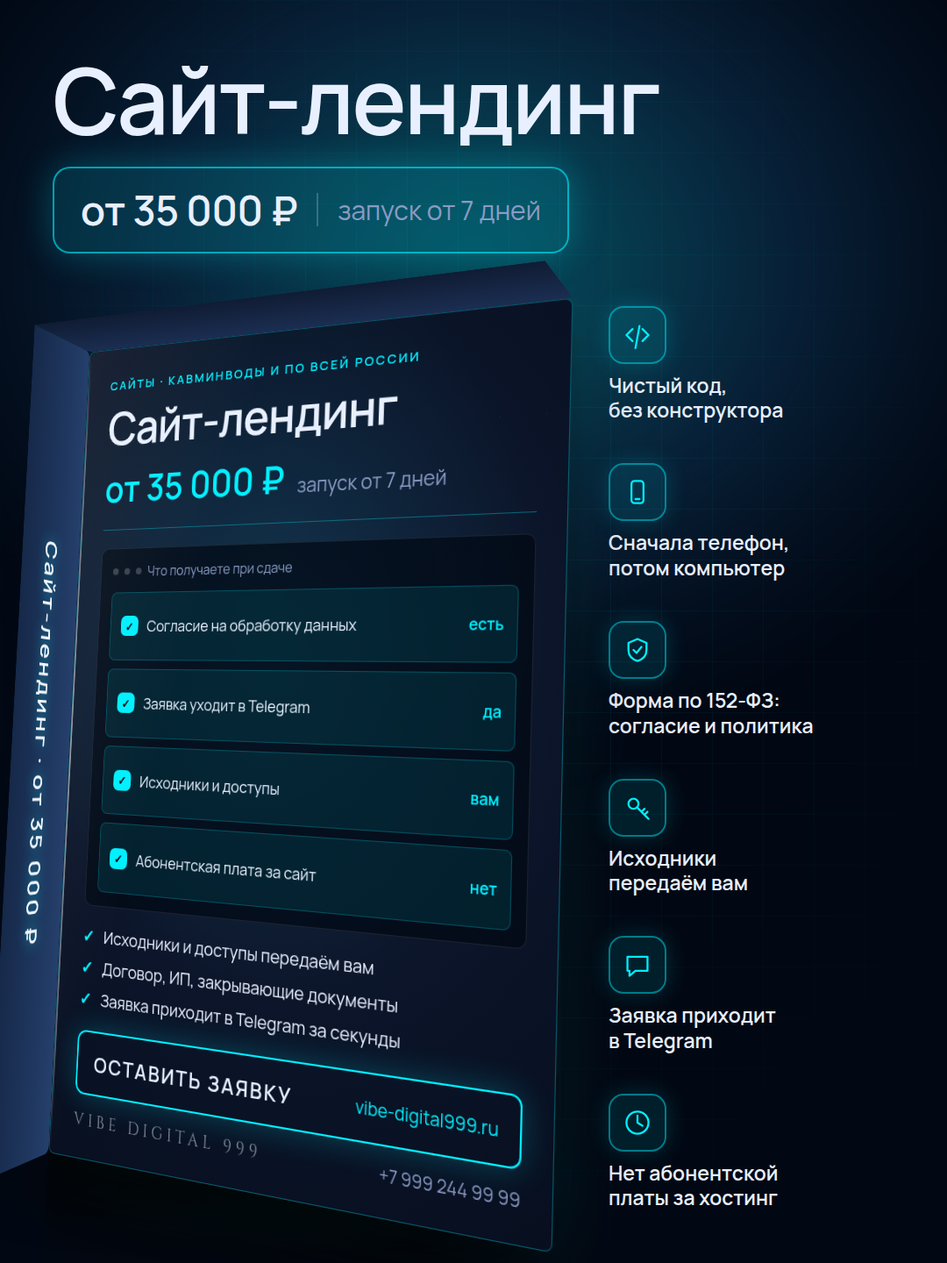
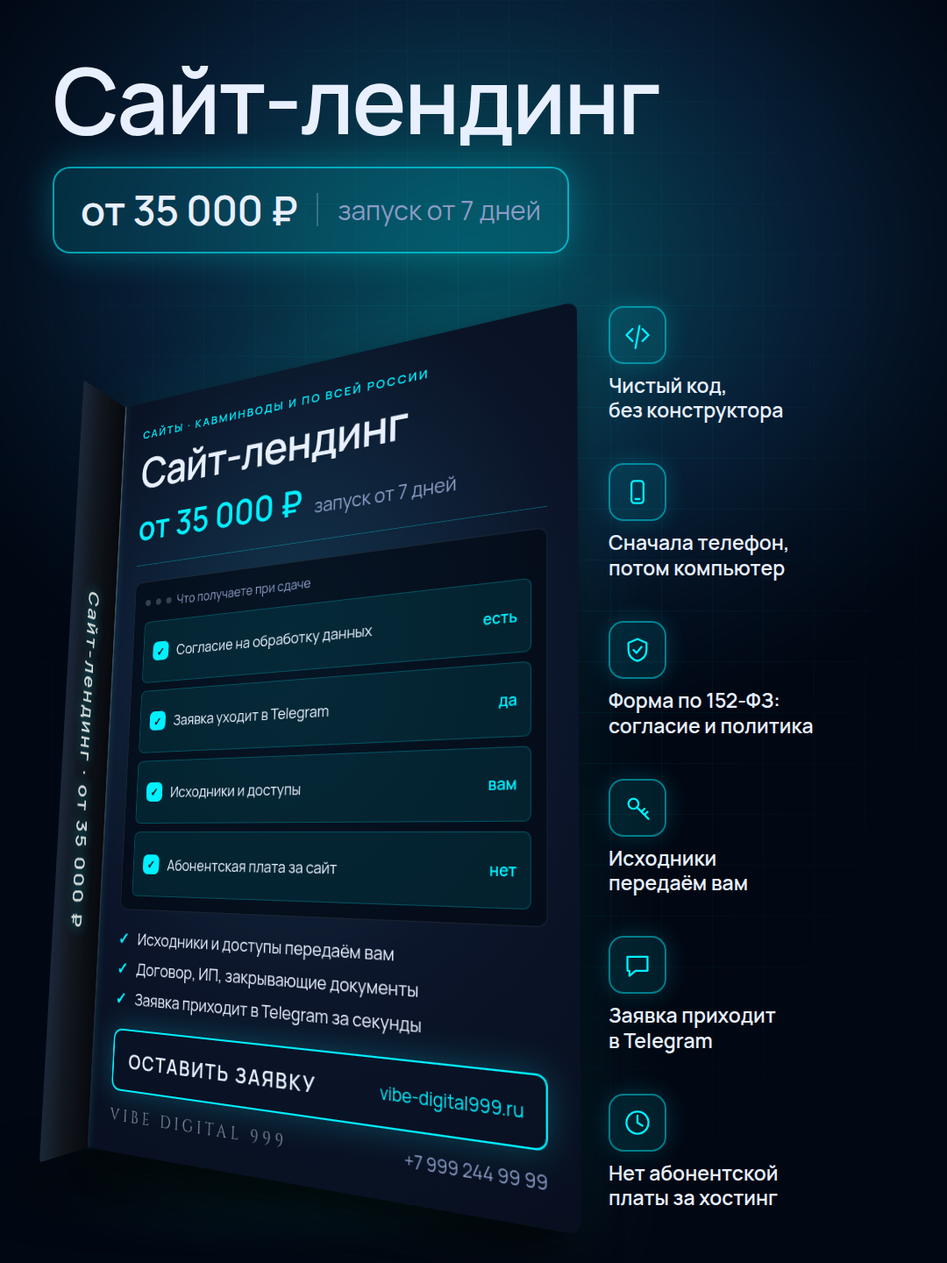
Книга собрана одним блоком с псевдоэлементами
По схеме владелицы: .book как единое тело, корешок и блик на сгибе —
::before и ::after. Отдельные грани удалены: браузер поворачивал их
независимо, отсюда щели и раскрытая обложка.

Толщина пересчитана по пропорции её макета (320px/45px) под наши
600px — 84px; на её 45px книга снова стала бы плоской.

Claude-Session: https://claude.ai/code/session_01ELgwZhZjs3zH5Yv9y5TfEh

Changed region(s): [[0.0, 0.1875, 0.6111, 0.9688], [0.4889, 0.4688, 0.55, 0.6562], [0.4889, 0.6875, 0.55, 0.7188]]

diff --git a/marketing/karty-korobka.js b/marketing/karty-korobka.js
@@ -167,6 +167,9 @@ ${fontCss}
   :root{
     --ink:#020813; --white:#E8F0FF; --mist:#8A9BC4;
     --acc:${k.color}; --acc2:${k.color2};
+    /* Надпись на торце. Через переменную, потому что content
+       у псевдоэлемента иначе не собрать из данных. */
+    --korshok:"${k.title} · ${k.cena}";
   }
 
   body{width:${W}px;height:${H}px;background:var(--ink);color:var(--white);
@@ -214,141 +217,93 @@ ${fontCss}
   /* ── Сцена с коробкой ──────────────────────────────────── */
   .scena{margin-top:44px;flex:1;display:flex;gap:34px;align-items:stretch}
 
-  /* ГЛУБИНА КОРОБКИ — одно число, от него считаются боковая и верхняя
-     грани. Первая версия была 64px при развороте 15°: боковина в кадре
-     занимала 64·sin15° ≈ 16 пикселей, и предмет читался плоской панелью,
-     а не коробкой. Владелица сказала прямо — «книга не выходит».
-     Теперь 118px при 24°: боковина ≈ 48px, ребро видно. */
-  .scena{--glub:110px;--pol:55px}   /* --pol — половина толщины */
+  /* ── КНИГА ────────────────────────────────────────────────
 
-  /* align-items:stretch, а не center: коробка занимает всю высоту сцены,
-     и тень внизу оказывается прямо под дном. При center коробка висела
-     посередине, а тень оставалась у нижнего края контейнера — в полусотне
-     пикселей под ней, и предмет всё равно не стоял. */
-  .box3d{position:relative;perspective:1500px;perspective-origin:50% 38%;
-    /* Отступ сверху — под верхнюю грань: она торчит над лицом на всю
-       глубину коробки и без запаса налезала на строчку про акцию. */
-    flex:0 0 600px;display:flex;align-items:stretch;padding:46px 0 52px}
+     Собирается ОДНИМ блоком, а не тремя гранями. Разница
+     принципиальная, и предыдущие версии на ней и валились:
+     три отдельные грани браузер поворачивает независимо, между ними
+     появляются щели и провалы, а угол читается раскрытой обложкой.
 
-  /* Тень на поверхности. Без неё коробка висит в пустоте: объём есть,
-     а стоять ей не на чем — глаз это замечает раньше, чем разбирает
-     грани. Две тени: чёрная под дном и цветной отсвет пошире. */
-  .box3d::after{content:'';position:absolute;z-index:0;
-    left:-10%;right:10%;bottom:8px;height:64px;border-radius:50%;
+     Здесь тело одно — .book. Корешок и блик на сгибе — его
+     псевдоэлементы, то есть части того же тела. Разъехаться нечему.
+
+     Пропорции взяты из образца владелицы и пересчитаны под наш холст:
+     у неё книга 320px и корешок 45px, это 14% толщины. У нас книга
+     600px, значит корешок 84px. Оставить 45px как есть было нельзя:
+     на нашем размере это 7%, и книга снова стала бы плоской —
+     то самое, на что она жаловалась двумя правками раньше. */
+  .scena{--tolshchina:84px}
+
+  .book-container{position:relative;perspective:1200px;
+    flex:0 0 600px;display:flex;align-items:stretch;
+    justify-content:center;padding:52px 0 56px}
+
+  /* Тень на «полу». Отдельными пятнами под контейнером, а не только
+     через box-shadow книги: box-shadow поворачивается вместе с телом
+     и ложится на его плоскость, а лежать она должна на полу. */
+  .book-container::after{content:'';position:absolute;z-index:0;
+    left:-10%;right:10%;bottom:10px;height:62px;border-radius:50%;
     background:radial-gradient(ellipse at 42% 50%,
       rgba(0,0,0,.9) 0%, rgba(0,0,0,.5) 42%, transparent 74%);
     filter:blur(26px)}
-  .box3d::before{content:'';position:absolute;z-index:0;
+  .book-container::before{content:'';position:absolute;z-index:0;
     left:-4%;right:-2%;bottom:0;height:88px;border-radius:50%;
     background:radial-gradient(ellipse at 50% 50%,
       color-mix(in srgb, var(--acc) 26%, transparent) 0%, transparent 70%);
     filter:blur(34px)}
 
-  /* СБОРКА КОРОБКИ. Три грани одного тела, а не лист с отогнутыми
-     краями. Правило простое: каждая грань выдвигается на половину
-     толщины вперёд, и только потом поворачивается вокруг своего ребра.
+  .book{position:relative;z-index:1;flex:1;
+    padding:34px 32px 30px;
+    border-radius:4px 12px 12px 4px;
+    transform-style:preserve-3d;
+    transform:rotateY(-28deg) rotateX(7deg) rotateZ(-2deg);
 
-     Первая версия строилась иначе: корешок стоял СНАРУЖИ лица,
-     через right:100%, и отгибался от него, как раскрытая обложка.
-     На картинке это и выглядело вывернутой наизнанку книгой —
-     угол между гранями получался тупой, а не прямой.
-
-     Теперь: лицо на +55px, корешок пристыкован к левому ребру
-     через left:0 с поворотом вокруг левого края и уходит ВГЛУБЬ,
-     от +55 до -55. Верхняя грань так же — от верхнего ребра назад.
-     Угол между гранями ровно 90°, тело замкнуто.
-
-     Осторожно: этот файл — шаблонная строка JS. Обратные кавычки
-     в комментариях к CSS закрывают её и валят разбор. */
-  .box{position:relative;z-index:1;transform-style:preserve-3d;flex:1;display:flex;
-    transform:rotateY(-25deg) rotateX(5deg)}
-
-  .top{position:absolute;left:0;top:0;width:100%;height:var(--glub);
-    transform-origin:top center;
-    transform:translateZ(var(--pol)) rotateX(90deg);
-    background:linear-gradient(180deg,#1B2E52,#101C34);
-    border-radius:8px 8px 0 0}
-
-  /* Корешок — боковая грань, отогнутая назад от левого ребра лица.
-
-     Как считается. Элемент ставится ЛЕВЕЕ лица (right:100%), значит его
-     правое ребро совпадает с левым ребром лица. Точка вращения — это
-     самое правое ребро, поворот на -90° уводит левый край назад ровно
-     на свою ширину, то есть на глубину коробки.
-
-     Первая версия вращалась вокруг точки внутри лица и с лишним
-     сдвигом — корешок ложился поперёк передней грани и перечёркивал
-     цену. На глаз это видно сразу, но только если посмотреть картинку,
-     а не поверить, что «CSS правильный». */
-  .spine{position:absolute;top:0;left:0;width:var(--glub);height:100%;
-    transform-origin:left center;
-    transform:translateZ(var(--pol)) rotateY(-90deg);
-    /* Боковина темнее лица: плоскость уходит от света, и без этого
-       перепада грани сливаются в одну картонку. Слева по ребру —
-       светлая полоса, это сгиб. */
-    /* Корешок СВЕТЛЕЕ лица, а не темнее. Первая версия была темнее —
-       и книга сливалась в одну чёрную массу: две грани одного тона
-       читаются как один плоский прямоугольник. Светлая боковина
-       и тёмное лицо разводят плоскости мгновенно. */
-    /* Светлее лица — иначе две грани одного тона читаются как один
-       плоский прямоугольник. Ни рамки, ни внутренней тени у стыка:
-       рамка давала светящуюся щель между гранями, тень — провал.
-       Тело должно быть монолитным, стык обозначает только блик. */
-    background:linear-gradient(90deg,#25406C 0%,#1E355C 45%,#16294A 100%);
-    border-radius:8px 0 0 8px;
-    display:flex;align-items:center;justify-content:center}
-  /* Корешок повёрнут наружу, то есть к зрителю он обращён ИЗНАНКОЙ,
-     и текст на нём выходит зеркальным. Первая версия так и вышла:
-     «Сайт-лендинг» читался вывернутыми буквами снизу вверх. Поворот
-     содержимого на 180° вокруг вертикальной оси гасит зеркало —
-     буквы встают как надо. Проверять такое можно только глазами
-     на увеличенном куске картинки: на общем плане надпись мелкая
-     и выглядит правдоподобно. */
-  /* К зрителю корешок обращён изнанкой, поэтому текст на нём зеркалится.
-     Поворот содержимого на 180° вокруг вертикальной оси это гасит.
-     Пометка на будущее: меняешь знак поворота грани — перепроверяй
-     надпись на увеличенном куске, зеркало появляется и исчезает
-     вместе со знаком. */
-  .spine span{writing-mode:vertical-rl;text-align:center;transform:rotateY(180deg);
-    font-size:30px;font-weight:800;letter-spacing:.1em;color:#F2F7FF;
-    text-shadow:0 0 18px color-mix(in srgb, var(--acc) 55%, transparent)}
-
-  /* Лицо: не плоская заливка, а материал. Радиальный градиент из центра
-     к краям — середина светлее, углы уходят в тень. Без него обложка
-     читается как фон под текстом, а не как поверхность предмета.
-     Тень уведена влево-вниз: свет падает справа сверху, значит книга
-     отбрасывает тень в противоположный угол. */
-  .face{position:relative;flex:1;padding:34px 32px 30px;border-radius:8px;
-    transform:translateZ(var(--pol));
+    /* Обложка — материал, а не заливка: середина светлее, углы уходят
+       в тень. Поверх — едва заметный отсвет цветом услуги. */
     background:
       radial-gradient(ellipse 90% 70% at 42% 34%,
         color-mix(in srgb, var(--acc) 9%, transparent) 0%,
         transparent 62%),
       radial-gradient(ellipse 120% 90% at 45% 40%,
         #16243F 0%, #0B1428 48%, #050C1A 100%);
-    border:1px solid color-mix(in srgb, var(--acc) 32%, transparent);
-    box-shadow:-46px 60px 120px rgba(0,0,0,.72),
-               -18px 26px 60px rgba(0,0,0,.5),
-               0 0 80px color-mix(in srgb, var(--acc) 13%, transparent);
+
+    box-shadow:
+      -10px 20px 40px rgba(0,0,0,.6),
+      -25px 40px 60px rgba(0,0,0,.4),
+      0 0 80px color-mix(in srgb, var(--acc) 12%, transparent);
+
     display:flex;flex-direction:column}
 
-  /* БЛИК НА СГИБЕ. Тонкая светлая полоса ровно по стыку лица и корешка.
-     Приём стоит две строчки, а объём даёт сразу: глаз читает ребро
-     как физический сгиб, поймавший свет. */
-  .face::after{content:'';position:absolute;top:6px;bottom:6px;left:0;width:2px;
-    background:linear-gradient(180deg,
-      transparent 0%,
-      rgba(255,255,255,.34) 14%,
-      rgba(255,255,255,.55) 50%,
-      rgba(255,255,255,.34) 86%,
-      transparent 100%);
-    pointer-events:none}
+  /* КОРЕШОК. Пристыкован к левому ребру и уходит вглубь: поворот вокруг
+     собственного левого края на 90°. Ни рамки, ни внутренней тени —
+     они и давали светящуюся щель между гранями. */
+  .book::before{content:var(--korshok);
+    position:absolute;left:0;top:0;width:var(--tolshchina);height:100%;
+    transform-origin:left center;
+    /* Читать справа налево: сдвиг на свою ширину, зеркало, поворот.
+       Зеркало здесь не украшение — к зрителю торец обращён изнанкой,
+       и без него надпись читается вывернутыми буквами. Сдвиг возвращает
+       грань на место после зеркала, поэтому геометрия не едет:
+       корешок по-прежнему уходит вглубь ровно на свою толщину. */
+    transform:rotateY(-90deg) scaleX(-1) translateX(-100%);
+    background:linear-gradient(270deg,#07090D 0%,#121820 62%,#1B2739 100%);
+    border-radius:4px 0 0 4px;
 
-  /* Мягкая засветка от верхнего левого угла — след того же источника. */
-  .face::before{content:'';position:absolute;inset:0;border-radius:8px;
-    background:linear-gradient(104deg,
-      rgba(255,255,255,.07) 0%,
-      transparent 30%);
+    /* Надпись на торце: строка кладётся вертикально и центрируется.
+       writing-mode вместо rotateZ — так буквы не выходят за узкий торец
+       и не требуют подгонки сдвигом. */
+    writing-mode:vertical-rl;text-align:center;white-space:nowrap;
+    display:flex;align-items:center;justify-content:center;
+    color:rgba(255,255,255,.82);font-size:26px;font-weight:800;
+    letter-spacing:.12em;
+    text-shadow:0 0 16px color-mix(in srgb, var(--acc) 50%, transparent)}
+
+  /* БЛИК НА СГИБЕ. Тонкая полоса ровно по ребру между обложкой
+     и корешком — от неё угол читается сгибом, а не стыком двух картонок. */
+  .book::after{content:'';position:absolute;left:0;top:0;width:2px;height:100%;
+    background:linear-gradient(to bottom,
+      rgba(255,255,255,.28), rgba(255,255,255,.06));
+    box-shadow:0 0 8px color-mix(in srgb, var(--acc) 34%, transparent);
     pointer-events:none}
 
   .f-eye{font-size:15px;font-weight:700;letter-spacing:.16em;
@@ -431,11 +386,8 @@ ${fontCss}
     ${k.akciya ? `<div class="akciya">${k.akciya}</div>` : ''}
 
     <div class="scena">
-      <div class="box3d">
-        <div class="box">
-          <div class="top"></div>
-          <div class="spine"><span>${k.title} · ${k.cena}</span></div>
-          <div class="face">
+      <div class="book-container">
+        <div class="book">
             <div class="f-eye">${k.eyebrow}</div>
             <div class="f-title">${k.title}</div>
             <div class="f-cena"><b>${k.cena}</b><span>${k.srokPrefix} ${k.srok}</span></div>
@@ -456,10 +408,9 @@ ${fontCss}
               <b>Оставить заявку</b><span>vibe-digital999.ru</span>
             </div>
 
-            <div class="f-foot">
-              <span class="mark">VIBE DIGITAL 999</span>
-              <span class="tel">+7 999 244 99 99</span>
-            </div>
+          <div class="f-foot">
+            <span class="mark">VIBE DIGITAL 999</span>
+            <span class="tel">+7 999 244 99 99</span>
           </div>
         </div>
       </div>
@@ -508,7 +459,7 @@ fs.mkdirSync(OUT, { recursive: true });
 
     const check = await page.evaluate(() => {
       const s = document.querySelector('.sheet');
-      const f = document.querySelector('.face').getBoundingClientRect();
+      const f = document.querySelector('.book').getBoundingClientRect();
       return {
         perepolnenie: Math.round(s.scrollHeight - s.clientHeight),
         nizKorobki: Math.round(f.bottom),

diff --git a/TASKS.md b/TASKS.md
@@ -3171,3 +3171,50 @@ GreenSock). Проверено открытием страниц, а не пои
 **Ждём от Гульнары:**
 
 - [ ] Посмотреть обе карточки: собралась ли коробка.
+
+### 13 августа, дополнение — книга собрана одним блоком
+
+Владелица прислала готовый CSS и потребовала прекратить делить книгу
+на независимые грани: «единый жёсткий блок, корешок и блик —
+псевдоэлементы». Так и сделано, схема её.
+
+**Почему её схема лучше моей.** Три отдельные грани браузер поворачивает
+независимо: между ними появляются щели, а угол читается раскрытой
+обложкой. У псевдоэлементов такого нет — они части того же тела,
+разъехаться нечему. Три моих версии подряд валились ровно на этом.
+
+**Сделано:**
+
+- [x] `      ` `.book` — один блок, весь контент внутри, поворот целиком:
+      `rotateY(-28deg) rotateX(7deg) rotateZ(-2deg)`, перспектива 1200px.
+      Отдельные `.top`, `.spine`, `.face` удалены.
+- [x] `      ` Корешок — `::before` с надписью через переменную
+      `--korshok`. Блик на сгибе — `::after`, полоса 2px.
+- [x] `      ` Тень оставлена двойная: `box-shadow` на книге по её коду
+      плюс размытые пятна под контейнером. Одного `box-shadow` мало:
+      он поворачивается вместе с телом и ложится на его плоскость,
+      а лежать должен на полу.
+
+**Две правки против буквы её кода, обе с причиной:**
+
+- [x] `      ` **Толщина 84px, а не 45px.** Её CSS написан под книгу
+      шириной 320px, у нас 600px. 45px там — это 14% ширины, у нас
+      те же 45px дали бы 7%, и книга снова стала бы плоской: то самое,
+      на что она жаловалась двумя правками раньше. Пересчитано
+      по пропорции. Шрифт на торце так же: 11px → 26px, иначе надпись
+      не читалась бы вовсе.
+- [x] `      ` **Надпись на торце центрируется через `writing-mode`,
+      а не через `rotateZ(-90deg) translateZ(-45px)`.** Сдвиг подобран
+      под её размеры и на нашем размере промахивался бы мимо торца.
+
+**И снова зеркало.** К зрителю торец обращён изнанкой, буквы вывернулись
+в третий раз за вечер. У псевдоэлемента нет вложенного узла, чтобы
+развернуть содержимое, поэтому гасится прямо в трансформации:
+`rotateY(-90deg) scaleX(-1) translateX(-100%)` — сдвиг возвращает грань
+на место после зеркала, геометрия не едет. **Правило записано в код:
+меняешь поворот грани — смотри надпись на увеличенном куске.**
+
+**Ждём от Гульнары:**
+
+- [ ] Посмотреть: собралась ли книга монолитом.
+- [ ] Сказать, если 84px всё-таки много — это одно число.
